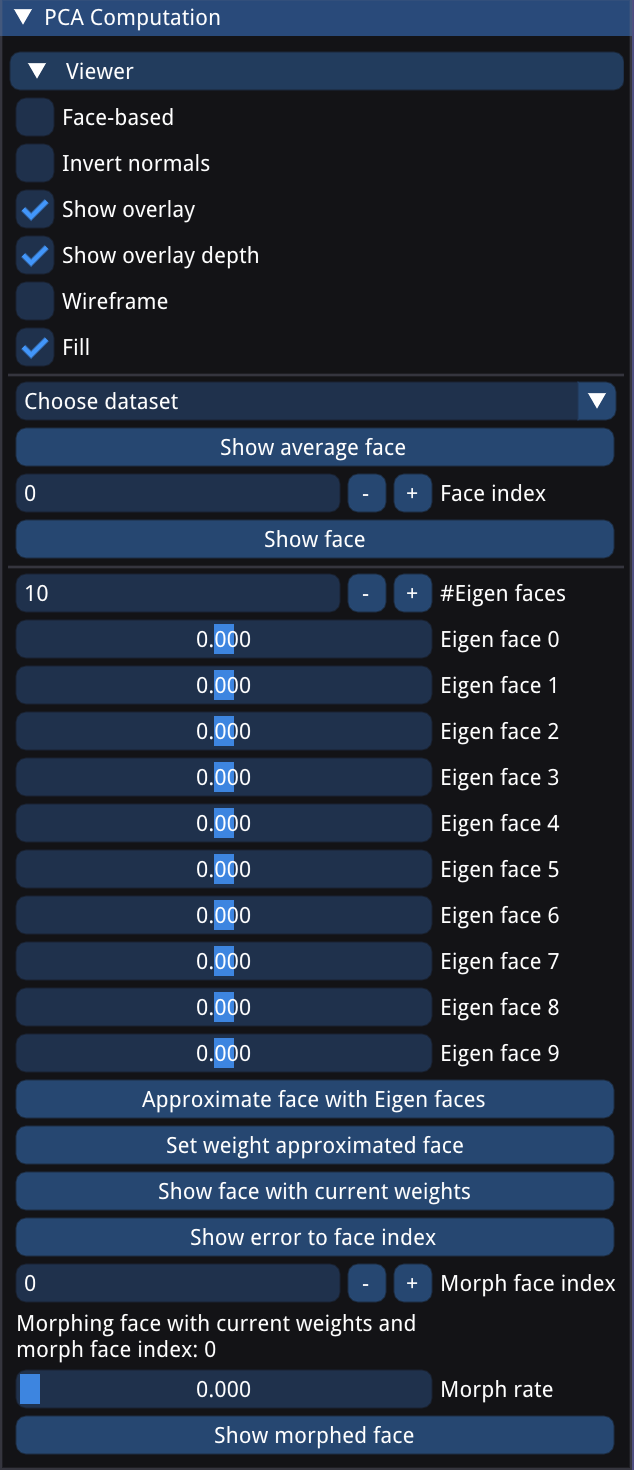
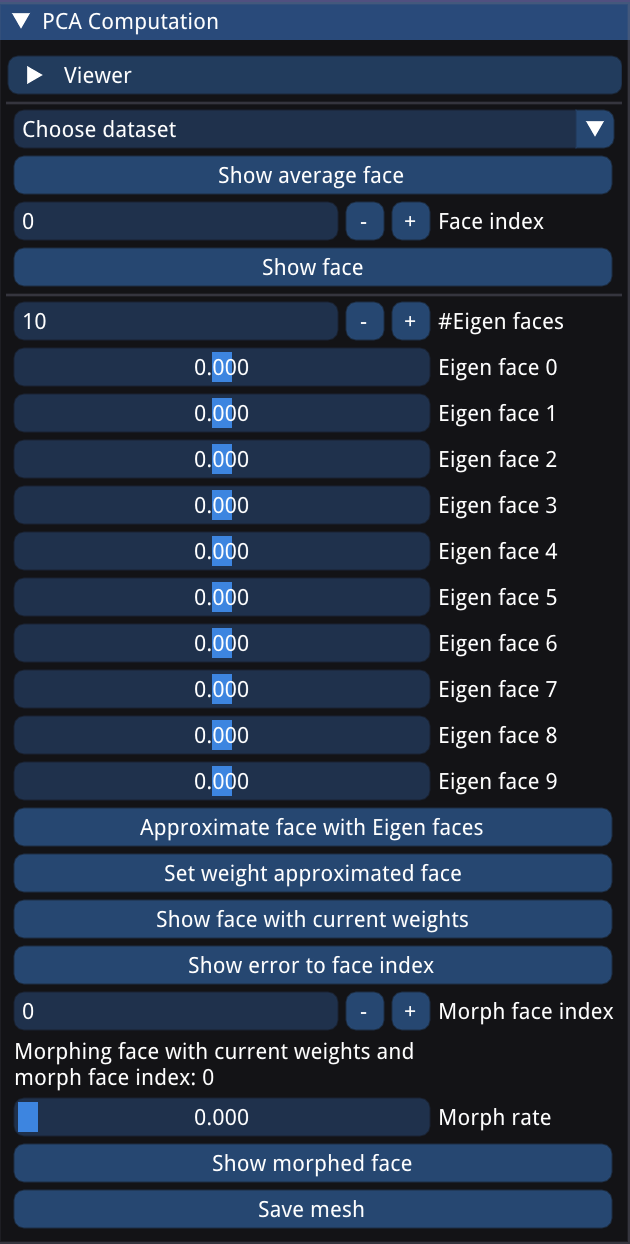
PCA: Added saving of mesh to report

diff --git a/assignment6/README.md b/assignment6/README.md
@@ -94,6 +94,9 @@ The PCA user interface starts with the general viewer settings (we assume these 
 <li>
 "Show morphed face": This button lets the user display the result of the morph process should any other mesh have been displayed in the mean time.
 </li>
+<li>
+"Save mesh": This button lets the user save the displayed mesh to the folder "data/pca-results".
+</li>
 <img src="results/morph-face.gif" width="1000" height="500" />
 </ul>
 
